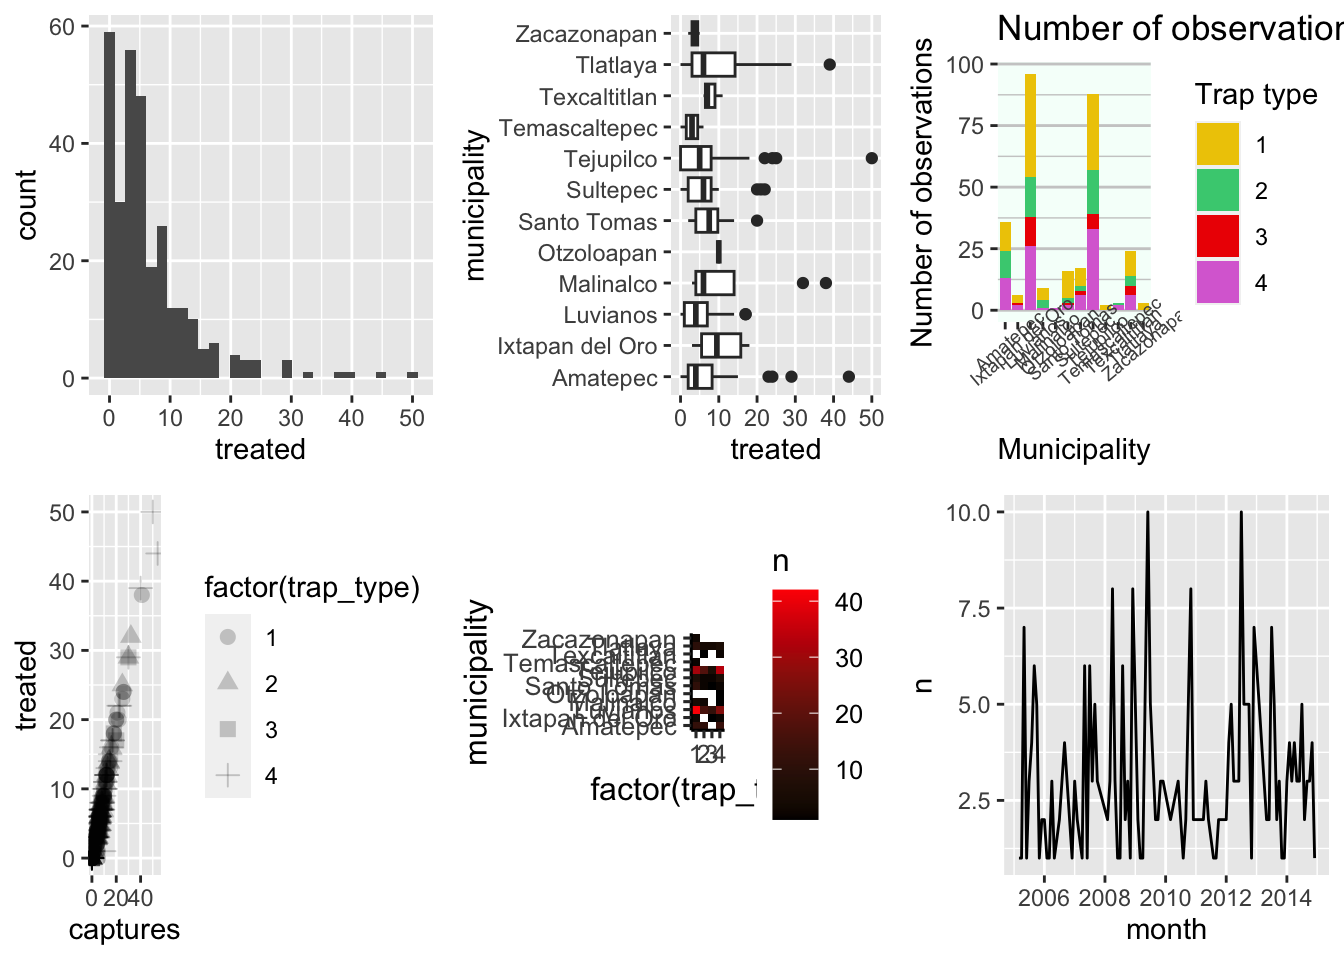
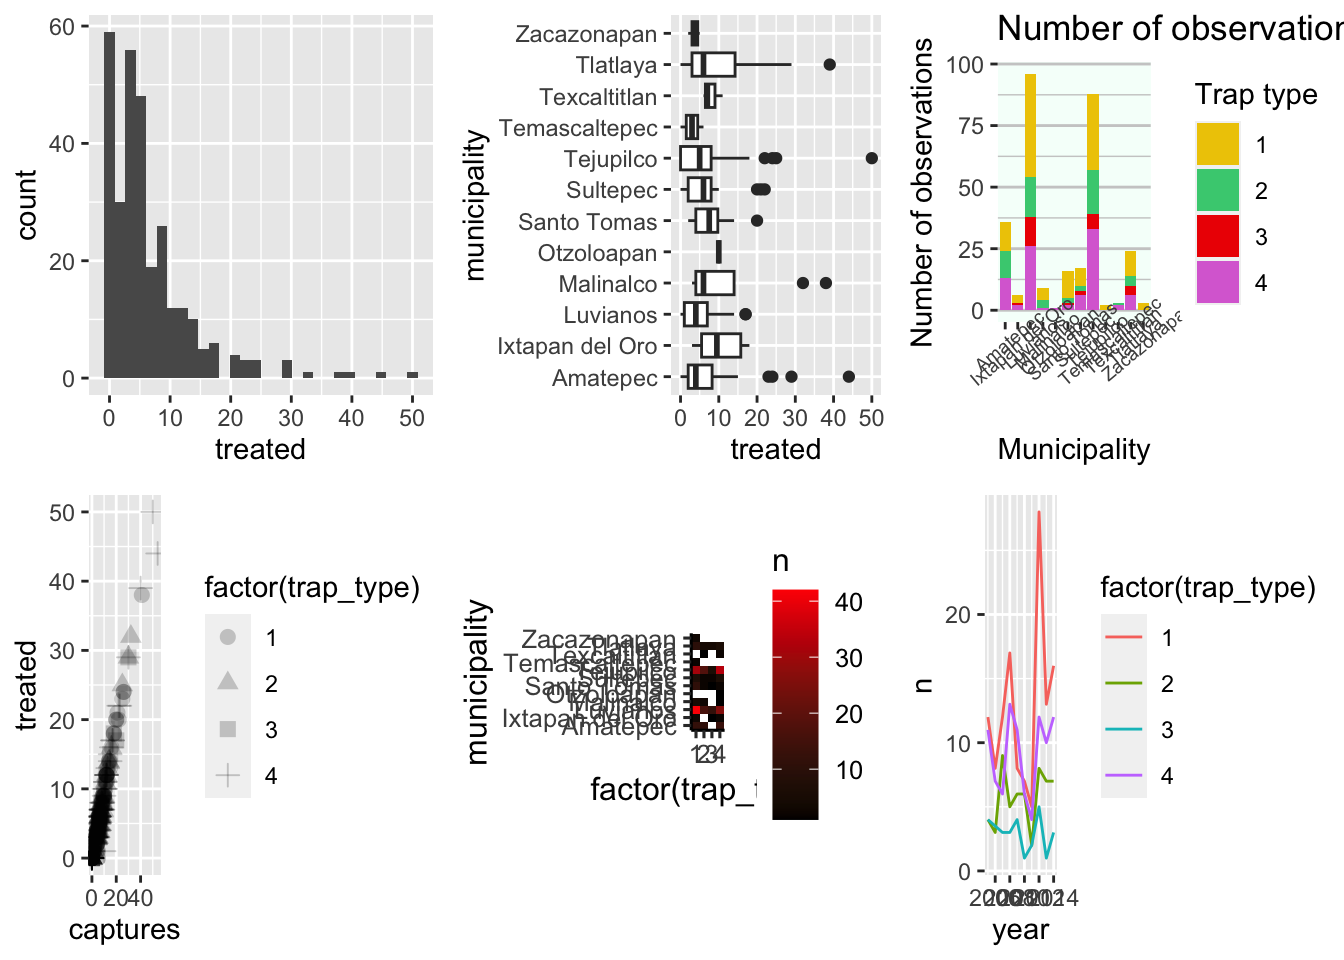
redistributed materials from lessons I-III

Changed region(s): [[0.6875, 0.5, 1.0, 1.0]]

diff --git a/DataViz_II.html b/DataViz_II.html
@@ -412,49 +412,17 @@ figures$scatter</code></pre>
 </div>
 <div id="color" class="section level2" number="2.2">
 <h2><span class="header-section-number">2.2</span> Color</h2>
-<p>We can add extra variables to indicate the composition (using another
-variable) of each of the levels in our figures. For example, we will add
-the variable <em>trap_type</em> to color the bars in this figure. to do
-this we add the argument <code>fill=factor(trap_type)</code> to our
-<code>aes()</code> function</p>
-<pre class="r"><code>figures$bars &lt;- captures %&gt;% 
-  count(municipality, trap_type) %&gt;% 
-  ggplot() +
-  geom_bar(aes(
-    y = municipality, # X axis
-    x = n, # Y axis
-    fill = factor(trap_type) # Variable used for fill
-  ), stat = &#39;identity&#39;) # type of bar plot
+<pre class="r"><code>tCaptures &lt;- captures %&gt;% 
+  mutate(date = as.Date(date, &quot;%d/%m/%y&quot;), # First we will format the date
+         year = lubridate::floor_date(date, &#39;year&#39;)) %&gt;%  # The we create a variable formatting the date as month of the year
+  count(year, trap_type) # Count the number of observations by month
 
-figures$bars</code></pre>
+figures$timeseries &lt;- tCaptures %&gt;% 
+  ggplot() +
+  geom_line(aes(x = year, y = n, col = factor(trap_type))) 
+
+figures$timeseries</code></pre>
 <p><img src="DataViz_II_files/figure-html/unnamed-chunk-3-1.png" width="672" /></p>
-<p>There are different strategies to visualize this, another example
-would be to breakdown the composition in individual bars like in the
-following figure, this can be useful to compare the within group
-composition:</p>
-<pre class="r"><code>captures %&gt;% 
-  count(municipality, trap_type) %&gt;% 
-  ggplot() +
-  geom_bar(aes(
-    y = municipality, # X axis
-    x = n, # Y axis
-    fill = factor(trap_type)
-  ), stat = &#39;identity&#39;, position = &#39;dodge&#39;) # type of barplot</code></pre>
-<p><img src="DataViz_II_files/figure-html/unnamed-chunk-4-1.png" width="672" /></p>
-<p>Another option is looking the composition as a proportion by adding
-the argument <code>position = 'fill</code> to the
-<code>geom_bar()</code> function, notice that this removes the sense of
-number of observations for the main category (<em>year</em>):</p>
-<pre class="r"><code>captures %&gt;% 
-  count(municipality, trap_type) %&gt;% 
-  ggplot() +
-  geom_bar(aes(
-    y = municipality, # X axis
-    x = n, # Y axis
-    fill = factor(trap_type)
-  ), stat = &#39;identity&#39;,
-  position = &#39;fill&#39;) # type of bar plot</code></pre>
-<p><img src="DataViz_II_files/figure-html/unnamed-chunk-5-1.png" width="672" /></p>
 </div>
 </div>
 <div id="non-aesthetics-customization" class="section level1"
@@ -476,7 +444,7 @@ observations:</p>
   )
 
 figures$scatter</code></pre>
-<p><img src="DataViz_II_files/figure-html/unnamed-chunk-6-1.png" width="672" /></p>
+<p><img src="DataViz_II_files/figure-html/unnamed-chunk-4-1.png" width="672" /></p>
 <p>You can change other components of the figure such as the color,
 shape, size, etc.. Remember that everything that goes inside the
 <code>aes()</code> function will be dependent on the variables from the
@@ -560,7 +528,19 @@ created contained in our figures list <code>figures$bars</code></p>
   )
 
 figures$bars</code></pre>
-<p><img src="DataViz_II_files/figure-html/unnamed-chunk-7-1.png" width="672" /></p>
+<p><img src="DataViz_II_files/figure-html/unnamed-chunk-5-1.png" width="672" /></p>
+<div id="in-figure-labels" class="section level2" number="5.1">
+<h2><span class="header-section-number">5.1</span> In figure labels</h2>
+<pre class="r"><code>library(ggrepel)
+
+lab &lt;- tCaptures %&gt;% 
+  group_by(trap_type) %&gt;% 
+  filter(year == min(year))
+
+figures$timeseries +
+  geom_label_repel(data = lab, aes(x = year, y = n, label = paste(&#39;Trap \n type: &#39;, trap_type), fill = factor(trap_type)), alpha = 0.6, size = 3)</code></pre>
+<p><img src="DataViz_II_files/figure-html/unnamed-chunk-6-1.png" width="672" /></p>
+</div>
 </div>
 <div id="beyond-basic-themes" class="section level1" number="6">
 <h1><span class="header-section-number">6</span> Beyond basic
@@ -573,7 +553,7 @@ will just use the function <code>coord_flip()</code> to do the same.</p>
   coord_flip() # We use this function to flip the x and y axis.
 
 figures$bars</code></pre>
-<p><img src="DataViz_II_files/figure-html/unnamed-chunk-8-1.png" width="672" /></p>
+<p><img src="DataViz_II_files/figure-html/unnamed-chunk-7-1.png" width="672" /></p>
 <p>Like you will notice, there is some overlap between the
 municipalities text and we can barely read them. We can modify the
 position of the x labels to fix this, to do this we need to modify the
@@ -592,7 +572,7 @@ try it:</p>
   theme(axis.text.x = element_text(angle = 40, size = 7))
 
 figures$bars</code></pre>
-<p><img src="DataViz_II_files/figure-html/unnamed-chunk-9-1.png" width="672" /></p>
+<p><img src="DataViz_II_files/figure-html/unnamed-chunk-8-1.png" width="672" /></p>
 </div>
 <div id="grid" class="section level2" number="6.2">
 <h2><span class="header-section-number">6.2</span> Grid</h2>
@@ -607,7 +587,7 @@ grid and the background color.</p>
   )
 
 figures$bars</code></pre>
-<p><img src="DataViz_II_files/figure-html/unnamed-chunk-10-1.png" width="672" /></p>
+<p><img src="DataViz_II_files/figure-html/unnamed-chunk-9-1.png" width="672" /></p>
 <p>If you noticed, when defining the arguments, I used different
 functions for the elements used (i.e. <code>element_blank()</code>,
 <code>element_rect()</code>, <code>element_line()</code>). Depending on

diff --git a/DataViz_I.html b/DataViz_I.html
@@ -545,6 +545,49 @@ then see it in a bar plot.</p>
 
 figures$bars</code></pre>
 <p><img src="DataViz_I_files/figure-html/barplots-1.png" width="672" /></p>
+<p>We can add extra variables to indicate the composition (using another
+variable) of each of the levels in our figures. For example, we will add
+the variable <em>trap_type</em> to color the bars in this figure. To do
+this we add the argument <code>fill=factor(trap_type)</code> to our
+<code>aes()</code> function</p>
+<pre class="r"><code>figures$bars &lt;- captures %&gt;% 
+  count(municipality, trap_type) %&gt;% 
+  ggplot() +
+  geom_bar(aes(
+    y = municipality, # X axis
+    x = n, # Y axis
+    fill = factor(trap_type) # Variable used for fill
+  ), stat = &#39;identity&#39;) # type of bar plot
+
+figures$bars</code></pre>
+<p><img src="DataViz_I_files/figure-html/unnamed-chunk-3-1.png" width="672" /></p>
+<p>There are different strategies to visualize this, another example
+would be to breakdown the composition in individual bars like in the
+following figure, this can be useful to compare the within group
+composition:</p>
+<pre class="r"><code>captures %&gt;% 
+  count(municipality, trap_type) %&gt;% 
+  ggplot() +
+  geom_bar(aes(
+    y = municipality, # X axis
+    x = n, # Y axis
+    fill = factor(trap_type)
+  ), stat = &#39;identity&#39;, position = &#39;dodge&#39;) # type of bar plot</code></pre>
+<p><img src="DataViz_I_files/figure-html/unnamed-chunk-4-1.png" width="672" /></p>
+<p>Another option is looking the composition as a proportion by adding
+the argument <code>position = 'fill</code> to the
+<code>geom_bar()</code> function, notice that this removes the sense of
+number of observations for the main category (<em>year</em>):</p>
+<pre class="r"><code>captures %&gt;% 
+  count(municipality, trap_type) %&gt;% 
+  ggplot() +
+  geom_bar(aes(
+    y = municipality, # X axis
+    x = n, # Y axis
+    fill = factor(trap_type)
+  ), stat = &#39;identity&#39;,
+  position = &#39;fill&#39;) # type of bar plot</code></pre>
+<p><img src="DataViz_I_files/figure-html/unnamed-chunk-5-1.png" width="672" /></p>
 </div>
 </div>
 <div id="visualizing-relationships" class="section level1" number="3">
@@ -559,22 +602,24 @@ represent relationship between two continuous variables.</p>
   geom_point(aes(x = treated, y = captures)) # and we add layer for points
 
 figures$scatter</code></pre>
-<p><img src="DataViz_I_files/figure-html/unnamed-chunk-3-1.png" width="672" /></p>
+<p><img src="DataViz_I_files/figure-html/unnamed-chunk-6-1.png" width="672" /></p>
 </div>
 <div id="heatmaps" class="section level2" number="3.2">
 <h2><span class="header-section-number">3.2</span> Heatmaps</h2>
 <p>Heatmaps represent the frequency (or other values) for a combination
 of variables in a matrix. For example, we can visualize the frequency of
 captures by trap type for each of the municipalities in our data:</p>
-<pre class="r"><code>captures %&gt;% # The data we are using
+<pre class="r"><code>figures$heatmap &lt;- captures %&gt;% # The data we are using
   count(municipality, trap_type) %&gt;% # We count the data by municipality and trap type
   ggplot() +
   geom_tile(aes(
-    x = factor(trap_type), # x axis
     y = municipality, # y axis
+    x = factor(trap_type), # x axis
     fill = n # The fill for each cell
-  ))</code></pre>
-<p><img src="DataViz_I_files/figure-html/unnamed-chunk-4-1.png" width="672" /></p>
+  ))
+
+figures$heatmap</code></pre>
+<p><img src="DataViz_I_files/figure-html/unnamed-chunk-7-1.png" width="672" /></p>
 </div>
 <div id="boxplots-again.." class="section level2" number="3.3">
 <h2><span class="header-section-number">3.3</span> Boxplots
@@ -585,7 +630,7 @@ figures$box &lt;- captures %&gt;%
   geom_boxplot(aes(x = treated, y = municipality))
 
 figures$box</code></pre>
-<p><img src="DataViz_I_files/figure-html/unnamed-chunk-5-1.png" width="672" /></p>
+<p><img src="DataViz_I_files/figure-html/unnamed-chunk-8-1.png" width="672" /></p>
 </div>
 </div>
 <div id="time-series" class="section level1" number="4">
@@ -607,7 +652,7 @@ as any other variable.</p>
   geom_line(aes(x = month, y = n))
 
 figures$timeseries</code></pre>
-<p><img src="DataViz_I_files/figure-html/unnamed-chunk-7-1.png" width="672" /></p>
+<p><img src="DataViz_I_files/figure-html/unnamed-chunk-10-1.png" width="672" /></p>
 </div>
 
 

diff --git a/DataViz_III.html b/DataViz_III.html
@@ -372,16 +372,12 @@ div.tocify {
 </div>
 
 
-<div id="objectives" class="section level1" number="1">
-<h1><span class="header-section-number">1</span> Objectives:</h1>
-<ul>
-<li>Talk about figure arrangements</li>
-<li>Make the data visualization exercise.</li>
-</ul>
-</div>
+<!-- # Objectives: -->
+<!--   - Talk about figure arrangements  -->
+<!--   - Make the data visualization exercise. -->
 <div id="arranging-the-plots-in-a-layout" class="section level1"
-number="2">
-<h1><span class="header-section-number">2</span> Arranging the plots in
+number="1">
+<h1><span class="header-section-number">1</span> Arranging the plots in
 a layout</h1>
 <p>Now that we have all the figures in a list, we can make arrangements
 with our figures. For this we use the function <code>ggarrange()</code>
@@ -426,29 +422,37 @@ toppanel</code></pre>
 
 p1</code></pre>
 <p><img src="DataViz_III_files/figure-html/unnamed-chunk-2-1.png" width="672" /></p>
-<p>Finaly we can add a general title for the arrangement</p>
+<p>Finally we can add a general title for the arrangement:</p>
 <pre class="r"><code>p1 %&gt;% 
   annotate_figure(top = text_grob(&#39;Summary of the findings&#39;, face = &#39;bold&#39;, size = 20))</code></pre>
 <p><img src="DataViz_III_files/figure-html/unnamed-chunk-3-1.png" width="672" /></p>
+<p>Notice that the specification of the text uses the function
+<code>text_grob()</code> which is a similar to the way we specify text
+for the themes in ggplot.</p>
 </div>
-<div id="facets" class="section level1" number="3">
-<h1><span class="header-section-number">3</span> Facets</h1>
+<div id="facets" class="section level1" number="2">
+<h1><span class="header-section-number">2</span> Facets</h1>
 <p>Facets are a way of stratifying the data based on variables in the
 data set, you can think about it in a similar way we have been using
 groups. To create a stratified plot we can use the function
 <code>facet_grid()</code> which will ask for a variable to go in the
 rows and another for columns:</p>
+<pre class="r"><code>figures$timeseries +
+  facet_grid(rows = vars(trap_type))</code></pre>
+<p><img src="DataViz_III_files/figure-html/unnamed-chunk-4-1.png" width="672" /></p>
 <pre class="r"><code>figures$histogram &lt;- captures %&gt;% # The data we will use 
   ggplot() + # set the canvas
   geom_histogram(aes(treated), fill = &#39;red4&#39;) + # We will create a histogram of the Age
   facet_grid(
     rows = vars(trap_type), # We will use the Sex variable for rows
-    cols = vars(year) # We use the Result variable for Columns
-  ) +
-  theme_pubclean() # lets try another theme
+    cols = vars(municipality) # We use the Result variable for Columns
+  )
 
 figures$histogram</code></pre>
-<p><img src="DataViz_III_files/figure-html/unnamed-chunk-4-1.png" width="672" /></p>
+<p><img src="DataViz_III_files/figure-html/unnamed-chunk-5-1.png" width="672" /></p>
+</div>
+<div id="exercise" class="section level1" number="3">
+<h1><span class="header-section-number">3</span> Exercise</h1>
 <p>Now that you know some tools to look for information, you will have
 to make your figures on your own. If you want to make figures with the
 datasets we have been using you can do those, or you can use any of the
@@ -459,7 +463,7 @@ website</a></li>
 <li>Identify a few figures that you would like to do (you can also do
 figures that we have previously done in the exercises)</li>
 <li>Make sure you label your figures!</li>
-<li>Experiment changing the colros, variables, themes etc…</li>
+<li>Experiment changing the colors, variables, themes etc…</li>
 <li>Replicate a few figures and put them in an arrangement.</li>
 </ol>
 <p>At the end we will have a discussion where you can share your figures
